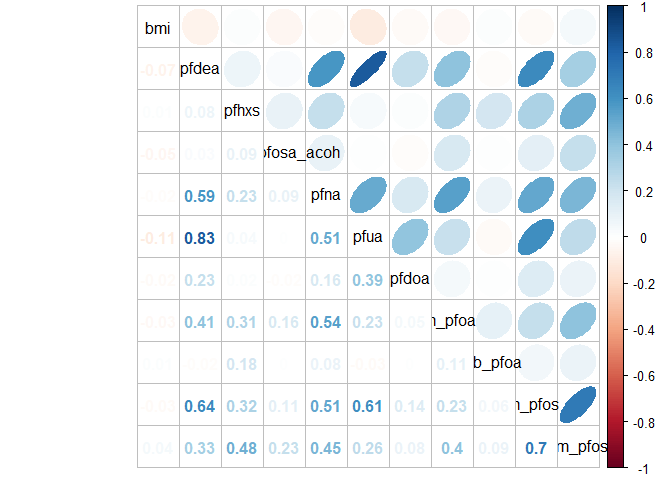
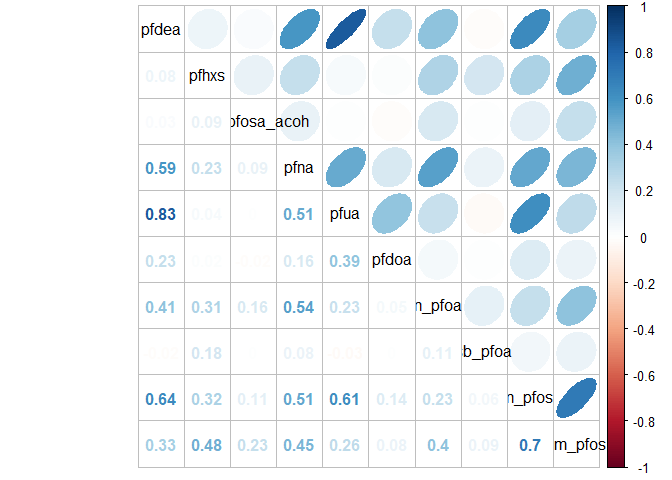
removed bmi for corrplot

diff --git a/rnhanes_nonlinear.md b/rnhanes_nonlinear.md
@@ -161,7 +161,7 @@ Correlations
 ``` r
 cor_pfas <-
   pfas %>% 
-    select(bmi, everything(), -(seqn:diabetes)) %>% 
+    select(-bmi, -(seqn:diabetes)) %>% 
     scale() %>% 
     cor()
   
